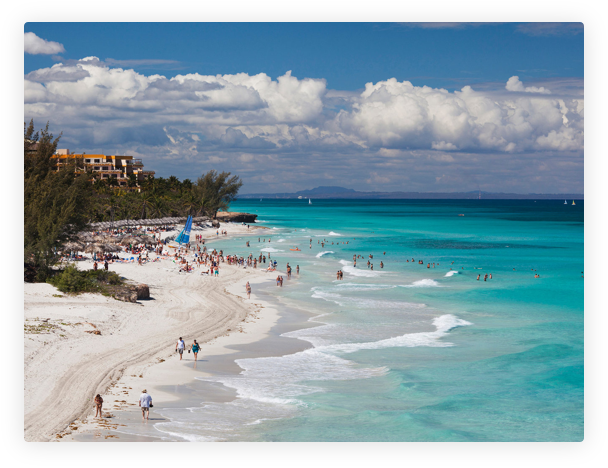
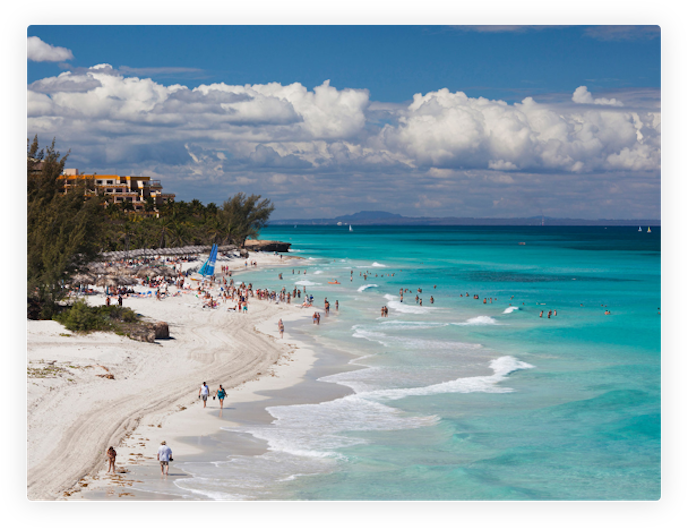
slider

diff --git a/src/project/project.scss b/src/project/project.scss
@@ -84,11 +84,6 @@ ul {
   //}
 }
 
-.slider {
-  width: 500px;
-  height: 500px;
-}
-
   .page-nav {
     height: 45px;
     margin: 20px auto 0 auto;
@@ -604,6 +599,40 @@ ul {
     background-color: #d0d4d8;
   }
 
+.slider {
+  max-width: 700px;
+  width: 100%;
+  height: 100%;
+  margin: 0 auto;
+}
+
+#slides{
+  position: relative;
+  height: 150px;
+  margin: 0 auto;
+  list-style-type: none;
+}
+
+.slide{
+  position: absolute;
+  left: 0px;
+  top: 0px;
+  width: 100%;
+  height: 100%;
+  opacity: 0;
+  z-index: 1;
+  margin: 0 auto;
+
+  -webkit-transition: opacity 1s;
+  -moz-transition: opacity 1s;
+  -o-transition: opacity 1s;
+  transition: opacity 1s;
+}
+
+.showing{
+  opacity: 1;
+  z-index: 2;
+}
 
 .footer {
   width: 100%;
@@ -647,34 +676,34 @@ ul {
   font-size: 18px;
 }
 
-  .footer-content {
-    width: 100%;
-    max-width: 1200px;
-    margin: auto;
-    height: 224px;
-    display: flex;
-    justify-content: flex-end;
-    margin: 0 0 auto;
-    color: #505050;
-    font-size: 14px;
-    font-family: Avenir Next;
-    font-weight: normal;
-    line-height: 1.5;
-    &__info {
-      text-align: left;
-      align-items: left;
-    }
-    &__rights {
-      margin: 50px auto;
-      text-align: center;
-      font-size: 14px;
-      color: black;
-      font-family: Avenir Next;
-    }
-    .footer-content__info-header {
-      font-size: 15px;
-      font-family: "Avenir Next";
-      color: #4e5665;
-      font-weight: normal;
-    }
+.footer-content {
+  width: 100%;
+  max-width: 1200px;
+  margin: auto;
+  height: 224px;
+  display: flex;
+  justify-content: flex-end;
+  margin: 0 0 auto;
+  color: #505050;
+  font-size: 14px;
+  font-family: Avenir Next;
+  font-weight: normal;
+  line-height: 1.5;
+  &__info {
+    text-align: left;
+    align-items: left;
   }
+  &__rights {
+    margin: 50px auto;
+    text-align: center;
+    font-size: 14px;
+    color: black;
+    font-family: Avenir Next;
+  }
+  .footer-content__info-header {
+    font-size: 15px;
+    font-family: "Avenir Next";
+    color: #4e5665;
+    font-weight: normal;
+  }
+}

diff --git a/src/project/project.html b/src/project/project.html
@@ -145,8 +145,18 @@
             of the Indian Ocean, it’s the Great Rift Valley that once threatened to tear the continent asunder, and it’s the dense forests reminiscent
             of the continent’s heart. In short, Kenya is a country of epic landforms that stir our deepest longings for this very special continent.
         </div>
-        <div class="slider__divider"></div>
-        <div class="slider" id="slide">
+        <div class="slider__divider">
+        </div>
+        <div class="slider">
+            <span>
+                <ul id="slides">
+                    <li class="slide showing"><img src="../../assets/images/photo_5.png"></li>
+                    <li class="slide"><img src="../../assets/images/photo_1.png"></li>
+                    <li class="slide"><img src="../../assets/images/photo_2.png"></li>
+                    <li class="slide"><img src="../../assets/images/photo_3.png"></li>
+                    <li class="slide"><img src="../../assets/images/photo_4.png"></li>
+                </ul>
+            </span>
         </div>
     </section>
     <section class="footer">

diff --git a/src/project/project.js b/src/project/project.js
@@ -1,2 +1,12 @@
 import './project.scss';
 import './slider/slider.js';
+
+var slides = document.querySelectorAll('#slides .slide');
+var currentSlide = 0;
+var slideInterval = setInterval(nextSlide,2000);
+
+function nextSlide(){
+    slides[currentSlide].className = 'slide';
+    currentSlide = (currentSlide+1)%slides.length;
+    slides[currentSlide].className = 'slide showing';
+}
